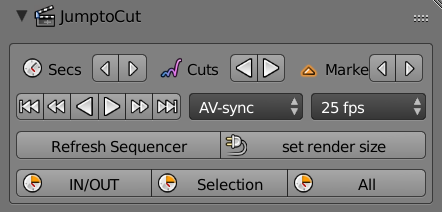
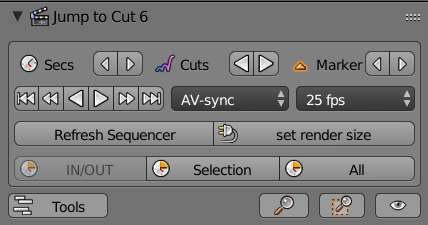
doc

diff --git a/ui.py b/ui.py
@@ -291,21 +291,20 @@ class JumptoCut(bpy.types.Panel):
         
         
         row=layout.row(align=True)
-        row.separator()
-        row.label(icon='SEQ_SEQUENCER', text="")  
-        row.prop(prefs, "kr_show_tools", text="Tools")
+        row = row.split(percentage=0.25)
+        row.prop(prefs, "kr_show_tools", text="Tools", icon='SEQ_SEQUENCER')
         if prefs.kr_show_tools:
-            row.prop(prefs, "kr_mini_ui", text="mini ui")
-            row.separator()    
-        
-        row.label(icon='VIEWZOOM', text="")
-        row.prop(prefs, "kr_show_info", text="")
-        
-        row.label(icon='RESTRICT_VIEW_OFF', text="")
-        row.prop(prefs, "kr_show_modifiers", text="")
-        
-        row.label(icon='BORDERMOVE', text="")    
-        row.prop(prefs, "kr_extra_info", text="")
+            row = row.split(percentage=0.45)
+            row.prop(prefs, "kr_mini_ui", text="mini")
+        else:
+            row = row.split(percentage=0.45) 
+            row.label(text = "")
+        row = row.split(percentage=0.33)   
+        row.prop(prefs, "kr_show_info", text="", icon='VIEWZOOM')
+        row = row.split(percentage=0.5) 
+        row.prop(prefs, "kr_extra_info", text="", icon='BORDERMOVE')
+        row = row.split(percentage=1) 
+        row.prop(prefs, "kr_show_modifiers", text="", icon='RESTRICT_VIEW_OFF')
         
         
         if prefs.kr_show_tools:
@@ -450,12 +449,14 @@ class JumptoCut(bpy.types.Panel):
         if prefs.kr_show_info:
             layout = self.layout
             layout = layout.box()
-            row = layout.split(percentage=0.05)
-            row.prop(prefs, "kr_show_info", text="",icon='VIEWZOOM', emboss=False)
-            row = row.split(percentage=0.12)
+            row = layout.split(percentage=0.075)
+            row.prop(prefs, "kr_show_info", text="",icon='VIEWZOOM', emboss=True)
+            row = row.split(percentage=0.25)
             row.label(text="Strip:")
             row = row.split(percentage=1)
             row.prop(strip, "name", text="")
+            layout.active = (not strip.mute)
+                
 
             
             row = layout.row()
@@ -576,66 +577,7 @@ class JumptoCut(bpy.types.Panel):
                         col.prop(strip, "input_2")   
             except AttributeError:
                 pass
-        ###########
-        
-        ## modifiers
-        
-        if strip.type != 'SOUND' and prefs.kr_show_modifiers:
-            sequencer = context.scene.sequence_editor
-            layout = self.layout
-            layout = layout.box()
-            row = layout.split(percentage=0.5)
-            row.prop(strip, "use_linear_modifiers")
-            row.operator_menu_enum("sequencer.strip_modifier_add", "type")
-            for mod in strip.modifiers:
-                box = layout.box()
-
-                row = box.row()
-                row.prop(mod, "show_expanded", text="", emboss=False)
-                row.prop(mod, "name", text="")
-
-                row.prop(mod, "mute", text="")
-
-                sub = row.row(align=True)
-                props = sub.operator("sequencer.strip_modifier_move", text="", icon='TRIA_UP')
-                props.name = mod.name
-                props.direction = 'UP'
-                props = sub.operator("sequencer.strip_modifier_move", text="", icon='TRIA_DOWN')
-                props.name = mod.name
-                props.direction = 'DOWN'
-
-                row.operator("sequencer.strip_modifier_remove", text="", icon='X', emboss=False).name = mod.name
-
-                if mod.show_expanded:
-                    row = box.row()
-                    row.prop(mod, "input_mask_type", expand=True)
-
-                    if mod.input_mask_type == 'STRIP':
-                        sequences_object = sequencer
-                        if sequencer.meta_stack:
-                            sequences_object = sequencer.meta_stack[-1]
-                        box.prop_search(mod, "input_mask_strip", sequences_object, "sequences", text="Mask")
-                    else:
-                        box.prop(mod, "input_mask_id")
-
-                    if mod.type == 'COLOR_BALANCE':
-                        box.prop(mod, "color_multiply")
-                        draw_color_balance(box, mod.color_balance)
-                    elif mod.type == 'CURVES':
-                        box.template_curve_mapping(mod, "curve_mapping", type='COLOR')
-                    elif mod.type == 'HUE_CORRECT':
-                        box.template_curve_mapping(mod, "curve_mapping", type='HUE')
-                    elif mod.type == 'BRIGHT_CONTRAST':
-                        col = box.column()
-                        col.prop(mod, "bright")
-                        col.prop(mod, "contrast")
-
-            
-        
-        ############################################################
-
-        
-                
+                                
         # extra info box:
         if prefs.kr_extra_info:
             layout = self.layout
@@ -643,8 +585,8 @@ class JumptoCut(bpy.types.Panel):
             if strip.type not in {'SOUND'}:
                 row = box.row(align=True)
                 sub = row.row(align=True)
-                sub.active = (not strip.mute)
-                sub.prop(prefs, "kr_extra_info", text = "", icon='BORDERMOVE', emboss = False)
+                box.active = (not strip.mute)
+                sub.prop(prefs, "kr_extra_info", text = "", icon='BORDERMOVE', emboss = True)
                 sub.separator()
                 sub.prop(strip, "blend_alpha", text="Opacity", slider=True)
                 row.prop(strip, "mute", toggle=True, icon_only=True)
@@ -706,10 +648,64 @@ class JumptoCut(bpy.types.Panel):
                 row.prop(strip, "pan")
 
     
-
+        ## modifiers
         
+        if strip.type != 'SOUND' and prefs.kr_show_modifiers:
+            sequencer = context.scene.sequence_editor
+            layout = self.layout
+            layout = layout.box()
+            row = layout.split(percentage=0.075)
+            row.prop(prefs, "kr_show_modifiers", text = "", icon='RESTRICT_VIEW_OFF', emboss = True)
+            row = row.split(percentage=0.40)
+            row.prop(strip, "use_linear_modifiers", text="Linear")
+            row = row.split(percentage=1)
+            row.operator_menu_enum("sequencer.strip_modifier_add", "type")
+            for mod in strip.modifiers:
+                box = layout.box()
 
+                row = box.row()
+                row.prop(mod, "show_expanded", text="", emboss=False)
+                row.prop(mod, "name", text="")
 
+                row.prop(mod, "mute", text="")
+
+                sub = row.row(align=True)
+                props = sub.operator("sequencer.strip_modifier_move", text="", icon='TRIA_UP')
+                props.name = mod.name
+                props.direction = 'UP'
+                props = sub.operator("sequencer.strip_modifier_move", text="", icon='TRIA_DOWN')
+                props.name = mod.name
+                props.direction = 'DOWN'
+
+                row.operator("sequencer.strip_modifier_remove", text="", icon='X', emboss=False).name = mod.name
+
+                if mod.show_expanded:
+                    row = box.row()
+                    row.prop(mod, "input_mask_type", expand=True)
+
+                    if mod.input_mask_type == 'STRIP':
+                        sequences_object = sequencer
+                        if sequencer.meta_stack:
+                            sequences_object = sequencer.meta_stack[-1]
+                        box.prop_search(mod, "input_mask_strip", sequences_object, "sequences", text="Mask")
+                    else:
+                        box.prop(mod, "input_mask_id")
+
+                    if mod.type == 'COLOR_BALANCE':
+                        box.prop(mod, "color_multiply")
+                        draw_color_balance(box, mod.color_balance)
+                    elif mod.type == 'CURVES':
+                        box.template_curve_mapping(mod, "curve_mapping", type='COLOR')
+                    elif mod.type == 'HUE_CORRECT':
+                        box.template_curve_mapping(mod, "curve_mapping", type='HUE')
+                    elif mod.type == 'BRIGHT_CONTRAST':
+                        col = box.column()
+                        col.prop(mod, "bright")
+                        col.prop(mod, "contrast")
+
+            
+        
+        ############################################################
         
         
 

diff --git a/README.md b/README.md
@@ -124,7 +124,7 @@ This are self explanatory, some useful internal operators...
 
 ##### In / Out
 
-Automatically set start and end frames of current scene according to In and Out markers.
+Set start and end frames of current scene according to In and Out markers.
 
 ##### Selection
 
@@ -134,7 +134,7 @@ It also centers the view into the selection
 
 ##### All
 
-Automatically set start and end frames of current scene according to the content of the Sequence Editor.
+Set start and end frames of current scene according to the content of the Sequence Editor.
 
 It also centers the view into the selection
 
@@ -144,7 +144,7 @@ It also centers the view into the selection
 
 ![kinoraw addon](/imgs/jump_to_cut_tools2.png?raw=true "kinoraw addon")
 
-*Bli bli bli* **compact UI** *bla bli bla bli bli,* **full size buttons** *Bli bli bli bla bli bla bli bli*
+*Bli bli bli* **mini UI** *bla bli bla bli bli,* **full size buttons** *Bli bli bli bla bli bla bli bli*
 
 ![kinoraw addon](/imgs/jump_to_cut_tools3.png?raw=true "kinoraw addon")
 
@@ -154,6 +154,8 @@ It also centers the view into the selection
 
 
 ### Snap and Handles
+
+![kinoraw addon](/imgs/snap2.png?raw=true "kinoraw addon")
 
 ![kinoraw addon](/imgs/snap.png?raw=true "kinoraw addon")
 
@@ -166,6 +168,8 @@ This are self explanatory, otherwise you can test and see what happens...
 This are self explanatory, otherwise you can test and see what happens...
 
 ### Meta Tools
+
+![kinoraw addon](/imgs/meta_tools2.png?raw=true "kinoraw addon")
 
 ![kinoraw addon](/imgs/meta_tools.png?raw=true "kinoraw addon")
 
@@ -184,6 +188,8 @@ The selected meta is ungrouped and all related strips outside in and out range a
 
 
 ## IN and OUT Tools
+
+![kinoraw addon](/imgs/io_tools3.png?raw=true "kinoraw addon")
 
 ![kinoraw addon](/imgs/io_tools2.png?raw=true "kinoraw addon")
 
@@ -410,7 +416,7 @@ It also centers the view into the selection
 
 ##### Trim to Timeline Content
 
-Automatically set start and end frames of current scene according to the content of the Sequence Editor.
+Set start and end frames of current scene according to the content of the Sequence Editor.
 
 It also centers the view into the selection
 
